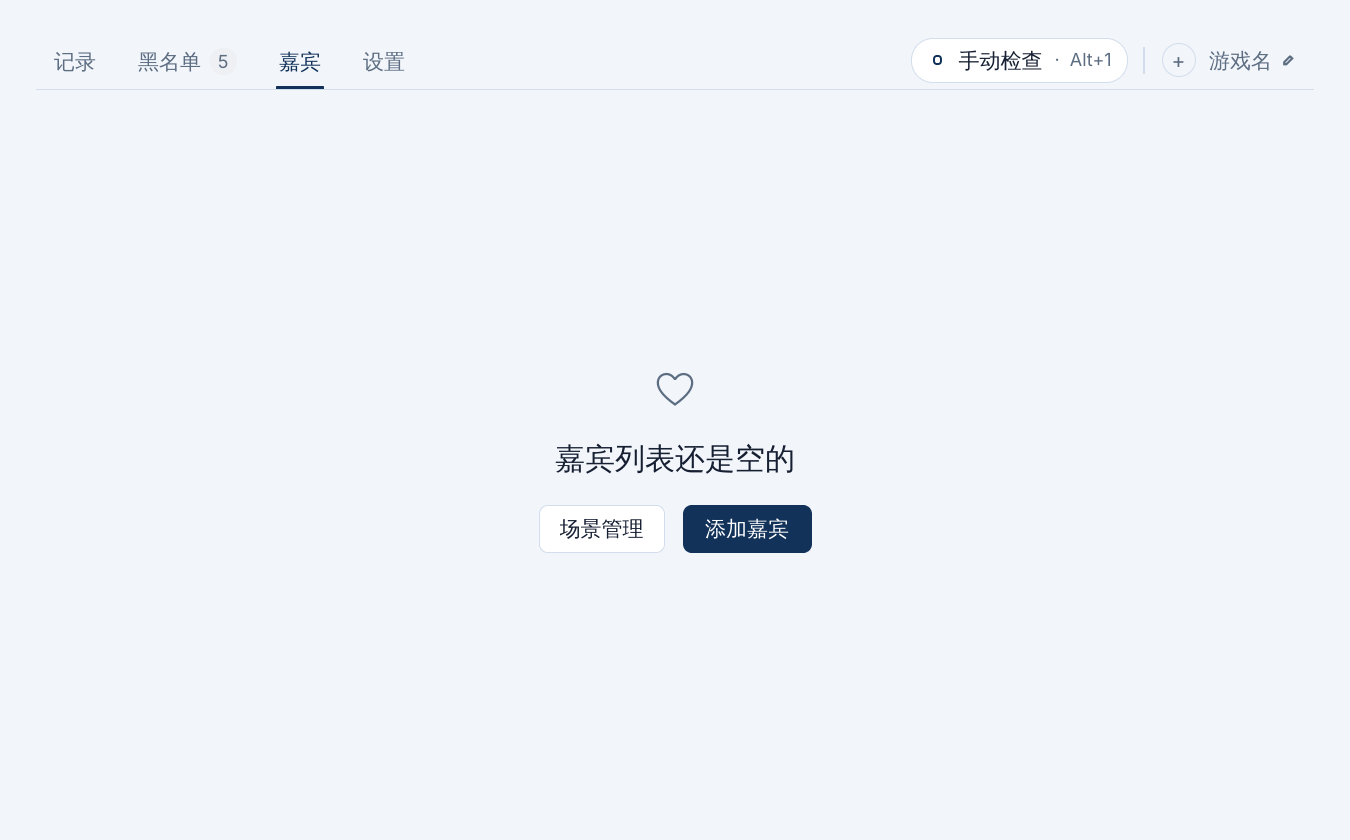
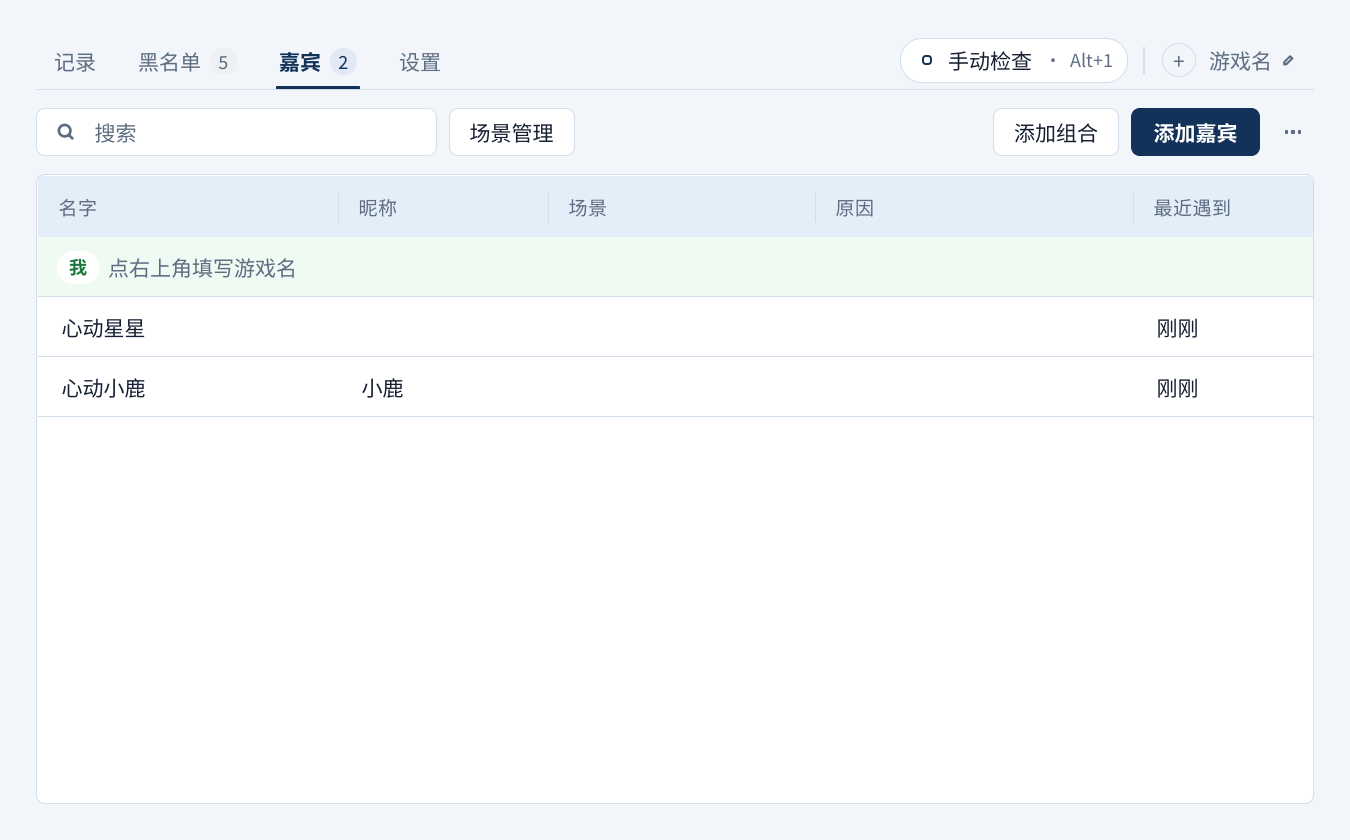
记录 shows each seat as its own tile like the Python app, with the 嘉宾 hearts in the pictures.
Claude-Session: https://claude.ai/code/session_011xQ3VJN6rkC9GT2LBBrD3v

diff --git a/rust/app/src/history/tests.rs b/rust/app/src/history/tests.rs
@@ -1,7 +1,7 @@
 use std::path::PathBuf;
 
 use chrono::DateTime;
-use data::store::{Like, Store};
+use data::store::Store;
 use slint::{ComponentHandle, Model};
 
 use super::*;
@@ -14,15 +14,7 @@ fn at(stamp: &str) -> DateTime<FixedOffset> {
 /// ui_shots' normal data: the list, two 嘉宾 (one with a 昵称), the player's name and one lobby of SEATS.
 fn seeded() -> Store {
     let mut store = crate::list::render::seeded("normal");
-    for (name, nickname) in [("心动小鹿", "小鹿"), ("心动星星", "")] {
-        store.likes.push(Like {
-            name: name.into(),
-            nickname: nickname.into(),
-            reason: String::new(),
-            added_at: String::new(),
-            scenes: Default::default(),
-        });
-    }
+    store.likes = tests_seed_likes();
     store.settings.player_name = "柠檬汽水".into();
     store
 }

diff --git a/rust/app/src/history/mod.rs b/rust/app/src/history/mod.rs
@@ -9,6 +9,21 @@
 #[cfg(test)]
 mod tests;
 
+/// ui_shots' 嘉宾 for the pictures: 心动小鹿 (昵称 小鹿) and 心动星星.
+#[cfg(test)]
+pub fn tests_seed_likes() -> Vec<data::store::Like> {
+    [("心动小鹿", "小鹿"), ("心动星星", "")]
+        .iter()
+        .map(|(name, nickname)| data::store::Like {
+            name: (*name).into(),
+            nickname: (*nickname).into(),
+            reason: String::new(),
+            added_at: String::new(),
+            scenes: Default::default(),
+        })
+        .collect()
+}
+
 use std::collections::{HashMap, HashSet};
 
 use chrono::{DateTime, FixedOffset, Timelike};

diff --git a/rust/app/src/ui_app.rs b/rust/app/src/ui_app.rs
@@ -242,7 +242,9 @@ mod tests {
     #[test]
     fn the_main_window_shows_each_page_and_opens_the_questions() {
         crate::shots::init();
-        let store = Rc::new(RefCell::new(crate::list::render::seeded("normal")));
+        let mut seeded = crate::list::render::seeded("normal");
+        seeded.likes = crate::history::tests_seed_likes();
+        let store = Rc::new(RefCell::new(seeded));
         let ui = MainUi::new(store.clone(), "1.2.0").unwrap();
         let dir = std::env::var_os("BLACKLIST_SHOTS").map(std::path::PathBuf::from).map(|d| d.join("main"));
         let mut pictures = Vec::new();
